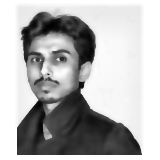
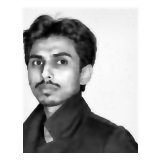
feat: finalize tuned ascii portrait and terminal config

Changed region(s): [[0.0938, 0.0312, 0.9062, 0.9688], [0.5312, 0.625, 0.8438, 0.875], [0.1875, 0.5625, 0.2188, 0.5938]]

diff --git a/scripts/make_ascii_svg.py b/scripts/make_ascii_svg.py
@@ -7,17 +7,18 @@ HERE = os.path.dirname(os.path.abspath(__file__))
 SRC = sys.argv[1] if len(sys.argv) > 1 else os.path.join(HERE, "..", "source-prepped.png")
 OUT = sys.argv[2] if len(sys.argv) > 2 else os.path.join(HERE, "..", "rayat-ascii.svg")
 
-COLS = int(os.environ.get("COLS", 180))
+COLS = int(os.environ.get("COLS", 170))
 ART_W_TARGET = 800
 CELL_W = ART_W_TARGET / COLS
 CELL_H = CELL_W * 15 / 8
 ROWS = round(COLS * 8 / 15)
 RAMP = " .`:-=+*cs#%@"
 
-CONTRAST = 1.15
-BRIGHTNESS = 1.05
-GAMMA = 1.12
-WHITE_FLOOR = 0.82
+# Balanced lighting parameters
+CONTRAST = 1.10
+BRIGHTNESS = 1.02
+GAMMA = 1.15
+WHITE_FLOOR = 0.84
 
 PAD = 20
 TITLEBAR_H = 30
@@ -64,8 +65,7 @@ art_top = TITLEBAR_H + PAD * 0.35
 parts = []
 parts.append(
     f'<svg xmlns="http://www.w3.org/2000/svg" width="{CANVAS_W}" height="{CANVAS_H}" '
-    f'viewBox="0 0 {CANVAS_W} {CANVAS_H}" font-family="ui-monospace, SFMono-Regular, '
-    f'Menlo, Consolas, monospace">'
+    f'viewBox="0 0 {CANVAS_W} {CANVAS_H}" font-family="ui-monospace, SFMono-Regular, Menlo, Consolas, monospace">'
 )
 parts.append('<defs>'
              f'<linearGradient id="bg" x1="0" y1="0" x2="0" y2="1">'
@@ -73,14 +73,12 @@ parts.append('<defs>'
              f'</linearGradient></defs>')
 
 parts.append(f'<rect width="{CANVAS_W}" height="{CANVAS_H}" rx="12" fill="url(#bg)"/>')
-parts.append(f'<rect x="0.5" y="0.5" width="{CANVAS_W-1}" height="{CANVAS_H-1}" rx="12" '
-             f'fill="none" stroke="{FRAME}" stroke-width="1"/>')
-
+parts.append(f'<rect x="0.5" y="0.5" width="{CANVAS_W-1}" height="{CANVAS_H-1}" rx="12" fill="none" stroke="{FRAME}" stroke-width="1"/>')
 parts.append(f'<line x1="0" y1="{TITLEBAR_H}" x2="{CANVAS_W}" y2="{TITLEBAR_H}" stroke="{FRAME}"/>')
+
 for i, dotcol in enumerate(["#ff5f56", "#ffbd2e", "#27c93f"]):
     parts.append(f'<circle cx="{PAD + i*16}" cy="{TITLEBAR_H/2}" r="5" fill="{dotcol}"/>')
-parts.append(f'<text x="{CANVAS_W/2}" y="{TITLEBAR_H/2 + 4}" fill="{TITLE_TEXT}" font-size="12" '
-             f'text-anchor="middle">rayat@github: ~$ ./portrait.sh</text>')
+parts.append(f'<text x="{CANVAS_W/2}" y="{TITLEBAR_H/2 + 4}" fill="{TITLE_TEXT}" font-size="12" text-anchor="middle">rayat@github: ~$ ./portrait.sh</text>')
 
 font_size = CELL_H * 0.86
 for ry, line in enumerate(rows_txt):
@@ -88,8 +86,7 @@ for ry, line in enumerate(rows_txt):
     row_y = art_top + ry * CELL_H
     delay = ry * STAGGER
     safe = html.escape(line)
-    text = (f'<text xml:space="preserve" x="{PAD}" y="{y:.1f}" fill="{INK}" '
-            f'font-size="{font_size:.1f}" textLength="{ART_W}" lengthAdjust="spacing">{safe}</text>')
+    text = (f'<text xml:space="preserve" x="{PAD}" y="{y:.1f}" fill="{INK}" font-size="{font_size:.1f}" textLength="{ART_W}" lengthAdjust="spacing">{safe}</text>')
 
     if STATIC:
         parts.append(text)
@@ -97,14 +94,12 @@ for ry, line in enumerate(rows_txt):
 
     parts.append(
         f'<clipPath id="r{ry}"><rect x="{PAD}" y="{row_y:.1f}" height="{CELL_H}" width="0">'
-        f'<animate attributeName="width" from="0" to="{ART_W}" begin="{delay:.3f}s" '
-        f'dur="{ROW_DUR:.2f}s" fill="freeze"/></rect></clipPath>'
+        f'<animate attributeName="width" from="0" to="{ART_W}" begin="{delay:.3f}s" dur="{ROW_DUR:.2f}s" fill="freeze"/></rect></clipPath>'
     )
     parts.append(f'<g clip-path="url(#r{ry})">{text}</g>')
     parts.append(
         f'<rect y="{row_y+1:.1f}" width="{CELL_W}" height="{CELL_H-2}" fill="{CURSOR}" opacity="0">'
-        f'<animate attributeName="x" from="{PAD}" to="{PAD+ART_W}" begin="{delay:.3f}s" '
-        f'dur="{ROW_DUR:.2f}s" fill="freeze"/>'
+        f'<animate attributeName="x" from="{PAD}" to="{PAD+ART_W}" begin="{delay:.3f}s" dur="{ROW_DUR:.2f}s" fill="freeze"/>'
         f'<set attributeName="opacity" to="0.85" begin="{delay:.3f}s"/>'
         f'<set attributeName="opacity" to="0" begin="{delay+ROW_DUR:.3f}s"/></rect>'
     )
@@ -112,12 +107,11 @@ for ry, line in enumerate(rows_txt):
 status_line_y = TITLEBAR_H + ART_H + PAD * 0.35
 status_y = status_line_y + 19
 parts.append(f'<line x1="0" y1="{status_line_y:.1f}" x2="{CANVAS_W}" y2="{status_line_y:.1f}" stroke="{FRAME}"/>')
-parts.append(f'<text x="{PAD}" y="{status_y:.1f}" fill="{TITLE_TEXT}" font-size="13">'
-             f'rayat@github:~$ whoami <tspan fill="{INK}">Sheikh Rayat Karim</tspan></text>')
+parts.append(f'<text x="{PAD}" y="{status_y:.1f}" fill="{TITLE_TEXT}" font-size="13">rayat@github:~$ whoami <tspan fill="{INK}">Sheikh Rayat Karim</tspan></text>')
+
 status_chars = len("rayat@github:~$ whoami Sheikh Rayat Karim ")
 parts.append(f'<rect x="{PAD + status_chars * 13 * 0.6:.1f}" y="{status_y-12:.1f}" width="8" height="14" fill="{INK}">'
-             f'<animate attributeName="opacity" values="1;1;0;0" keyTimes="0;0.5;0.51;1" '
-             f'dur="1s" repeatCount="indefinite"/></rect>')
+             f'<animate attributeName="opacity" values="1;1;0;0" keyTimes="0;0.5;0.51;1" dur="1s" repeatCount="indefinite"/></rect>')
 
 parts.append("</svg>")
 svg = "".join(parts)

diff --git a/scripts/prep_photo.py b/scripts/prep_photo.py
@@ -1,65 +1,31 @@
-"""
-Prepare the dp (a flat illustration) for clean ASCII conversion:
-  1. remove the background (rembg) so the subject is isolated
-  2. bilateral-smooth away the paper texture (otherwise skin turns to `::::`
-     noise and the eyes drown in it) while keeping the drawn lines sharp
-  3. stretch tones so skin lands near white and hair/lines stay dark
-  4. darken the line work (difference-of-gaussians ridges) -- eyelids, pupils,
-     glasses frame and smile are thin dark strokes that plain luminance
-     averaging washes out at ascii resolution
-  5. composite onto white and crop square around the subject
-
-Output: source-prepped.png (grayscale), consumed by make_ascii_svg.py.
-
-    python scripts/prep_photo.py <input.png> [output.png]
-"""
-import os
-import sys
-
 import cv2
 import numpy as np
 from PIL import Image
-from rembg import remove
 
-HERE = os.path.dirname(os.path.abspath(__file__))
-INP = sys.argv[1] if len(sys.argv) > 1 else os.path.join(HERE, "..", "source-photo.png")
-OUT = sys.argv[2] if len(sys.argv) > 2 else os.path.join(HERE, "..", "source-prepped.png")
+def prep(src_path, out_path):
+    im = cv2.imread(src_path)
+    gray = cv2.cvtColor(im, cv2.COLOR_BGR2GRAY)
+    h, w = gray.shape
 
-LINE_WEIGHT = 0.6     # how hard drawn lines are pushed toward black
+    # Focus directly on head and collar
+    crop = gray[5:150, 15:130]
+    ch, cw = crop.shape
+    
+    # Square canvas with margin
+    dim = max(ch, cw) + 16
+    square = np.full((dim, dim), 255, dtype=np.uint8)
+    square[(dim - ch) // 2 : (dim - ch) // 2 + ch, (dim - cw) // 2 : (dim - cw) // 2 + cw] = crop
 
-# 1. cut out the subject
-cut = remove(Image.open(INP).convert("RGBA"))
-rgb = np.array(cut.convert("RGB"))
-alpha = np.array(cut.split()[-1])                 # 0 = background
-gray = cv2.cvtColor(rgb, cv2.COLOR_RGB2GRAY)
+    # Mild bilateral filter to remove grain while preserving facial lines
+    smooth = cv2.bilateralFilter(square, 5, 25, 5)
 
-# 2. smooth texture, keep edges
-smooth = gray
-for _ in range(3):
-    smooth = cv2.bilateralFilter(smooth, 9, 40, 9)
+    # Moderate CLAHE for clear eyes, nose, and jaw definition
+    clahe = cv2.createCLAHE(clipLimit=2.0, tileGridSize=(6, 6))
+    prepped = clahe.apply(smooth)
 
-# 3. tone stretch over the subject only
-lo, hi = np.percentile(smooth[alpha > 128], [2, 92])
-tone = np.clip((smooth.astype(np.float32) - lo) / (hi - lo), 0, 1)
+    cv2.imwrite(out_path, prepped)
+    print(f"Prepped {out_path} ({dim}x{dim})")
 
-# 4. dark-on-light ridges -> darken
-fine = cv2.GaussianBlur(smooth, (0, 0), 1.5).astype(np.float32)
-coarse = cv2.GaussianBlur(smooth, (0, 0), 6).astype(np.float32)
-lines = np.clip((coarse - fine) / 40.0, 0, 1)
-out = np.clip(tone - LINE_WEIGHT * lines, 0, 1) * 255
-
-# 5. paste onto white (feathered a hair to avoid a halo), square crop
-mask = cv2.GaussianBlur(alpha.astype(np.float32) / 255.0, (0, 0), 1.0)
-out = out * mask + 255.0 * (1.0 - mask)
-
-ys, xs = np.where(alpha > 20)
-side = max(xs.max() - xs.min(), ys.max() - ys.min()) + 60
-cx, cy = (xs.min() + xs.max()) // 2, (ys.min() + ys.max()) // 2
-canvas = np.full((side, side), 255, np.uint8)
-x0, y0 = cx - side // 2, cy - side // 2
-sx0, sy0 = max(x0, 0), max(y0, 0)
-sx1, sy1 = min(x0 + side, out.shape[1]), min(y0 + side, out.shape[0])
-canvas[sy0 - y0:sy1 - y0, sx0 - x0:sx1 - x0] = out[sy0:sy1, sx0:sx1].astype(np.uint8)
-
-Image.fromarray(canvas, mode="L").save(OUT)
-print("wrote", OUT, canvas.shape)
+if __name__ == "__main__":
+    prep("/Users/sheikhrayatkarim/OpenBot/Agents/agent-b79d76b1-b039-4f28-864e-a36e438e52e7/rayat_portrait_clean.png",
+         "/Users/sheikhrayatkarim/Documents/GitHub/profile-repo/source-prepped.png")
